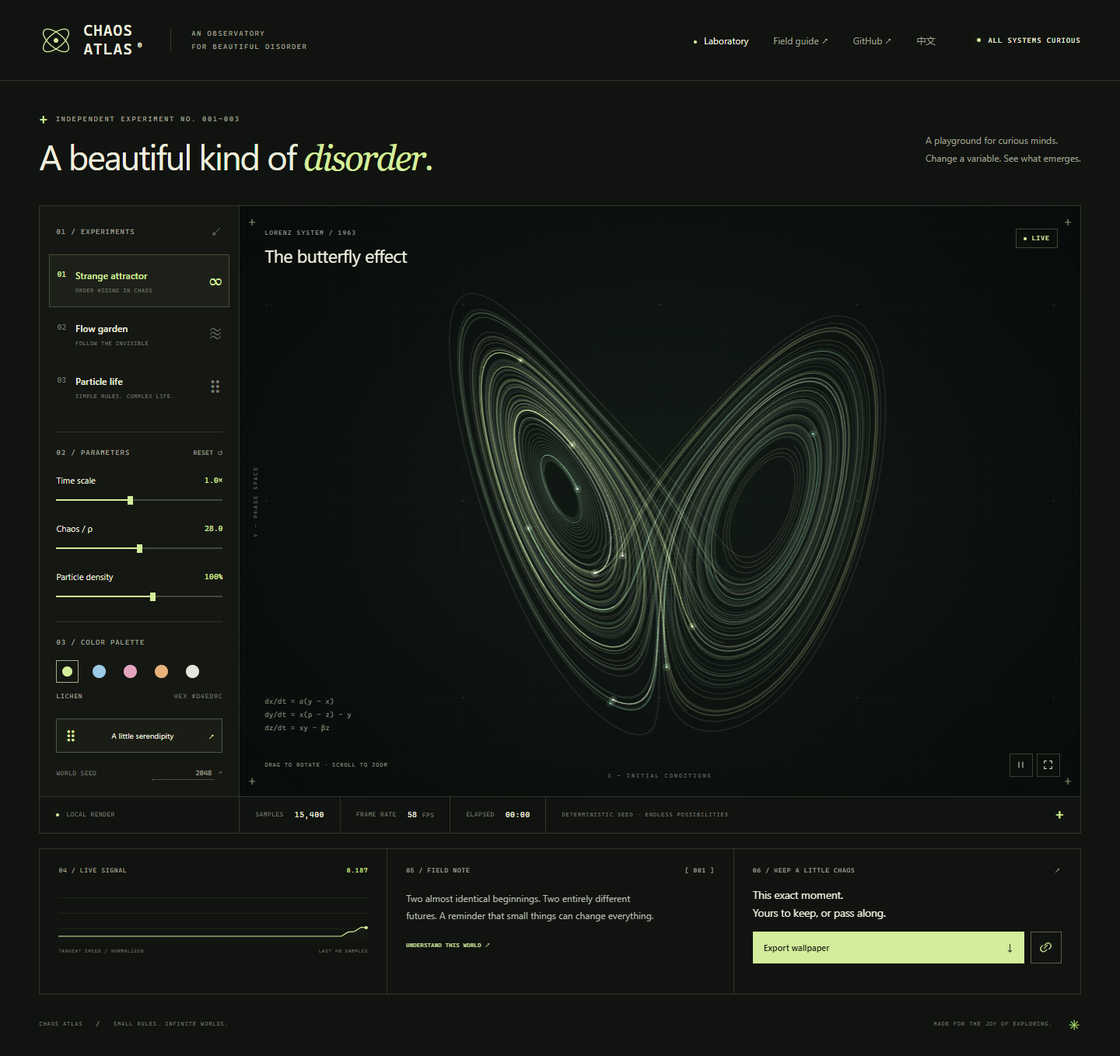
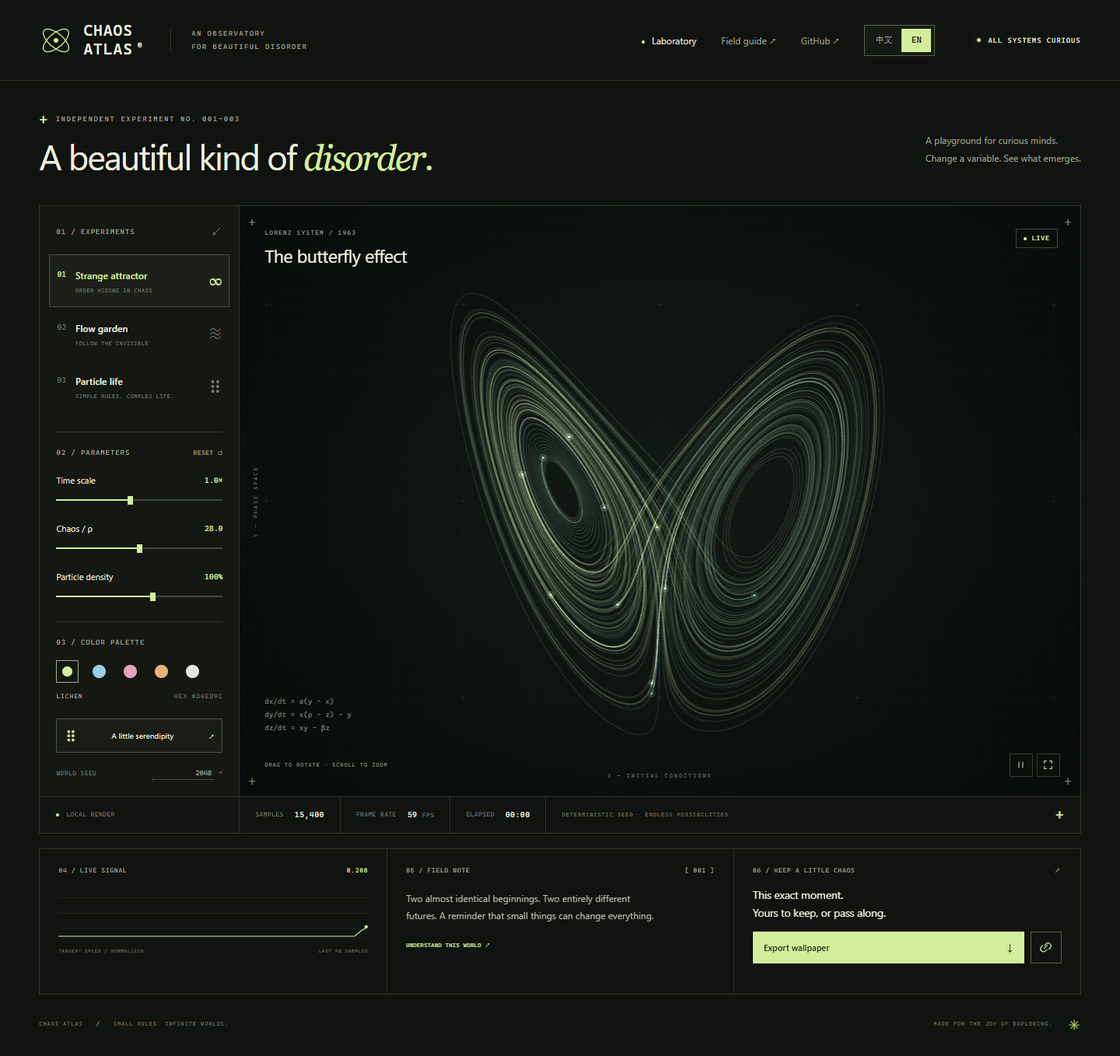
Make Chinese and English switching clear and complete

diff --git a/src/app.js b/src/app.js
@@ -5,14 +5,22 @@ const $$ = (selector) => [...document.querySelectorAll(selector)];
 const defaults = { scene: 'lorenz', seed: 2048, palette: 'lichen', speed: 1, force: 1, density: 1 };
 const scenes = ['lorenz', 'flow', 'life'];
 const palettes = {
-  lichen: { name: 'LICHEN', color: '#d4ed9c', wavelength: 555 },
-  glacier: { name: 'GLACIER', color: '#9bcbe5', wavelength: 480 },
-  rose: { name: 'ROSE', color: '#e2a4bc', wavelength: 650 },
-  ember: { name: 'EMBER', color: '#e7b37b', wavelength: 610 },
-  mono: { name: 'SILVER', color: '#e6e4db', wavelength: '—' },
+  lichen: { name: ['LICHEN', '苔绿'], color: '#d4ed9c' },
+  glacier: { name: ['GLACIER', '冰川'], color: '#9bcbe5' },
+  rose: { name: ['ROSE', '玫瑰'], color: '#e2a4bc' },
+  ember: { name: ['EMBER', '余烬'], color: '#e7b37b' },
+  mono: { name: ['SILVER', '银白'], color: '#e6e4db' },
 };
 const translations = {
   en: {
+    mastheadCaption: 'AN OBSERVATORY<br/>FOR BEAUTIFUL DISORDER',
+    pageTitle: 'CHAOS ATLAS — Beautiful disorder',
+    metaDescription: 'A small observatory for beautiful disorder. Explore living particle systems, discover strange attractors, and make a little chaos of your own.',
+    mainNavigation: 'Main navigation', languageLabel: 'Language', experimentsLabel: 'Experiments',
+    paletteLabel: 'Color palette', paletteName: '{name} palette', seedLabel: 'World seed, up to eight digits',
+    simulationLabel: 'Interactive particle simulation', signalLabel: 'Rolling trace of average particle motion',
+    homeLabel: 'Chaos Atlas home', githubLabel: 'Star Chaos Atlas on GitHub', closeDialog: 'Close dialog',
+    axisY: 'Y — PHASE SPACE', axisX: 'X — INITIAL CONDITIONS', frameRate: 'FRAME RATE', lastSamples: 'LAST 48 SAMPLES',
     navLab: 'Laboratory', navGuide: 'Field guide ↗', system: 'ALL SYSTEMS CURIOUS',
     introEyebrow: 'INDEPENDENT EXPERIMENT NO. 001—003', headline: 'A beautiful kind of <em>disorder.</em>',
     intro: 'A playground for curious minds.<br/>Change a variable. See what emerges.',
@@ -40,6 +48,14 @@ const translations = {
     pauseLabel: 'Pause simulation', resumeLabel: 'Resume simulation', immersiveLabel: 'Enter immersive mode', exitLabel: 'Exit immersive mode',
   },
   zh: {
+    mastheadCaption: '一座观察<br/>美丽无序的实验室',
+    pageTitle: 'CHAOS ATLAS · 混沌图谱 — 美丽的无序',
+    metaDescription: '一座观察美丽无序的小型实验室。探索奇异吸引子、流场花园和粒子生命，亲手生成并分享属于你的混沌世界。',
+    mainNavigation: '主导航', languageLabel: '语言', experimentsLabel: '实验场景',
+    paletteLabel: '色彩方案', paletteName: '{name}配色', seedLabel: '世界种子，最多八位数字',
+    simulationLabel: '可交互的粒子模拟', signalLabel: '平均粒子运动强度的实时曲线',
+    homeLabel: '混沌图谱首页', githubLabel: '在 GitHub 收藏混沌图谱', closeDialog: '关闭弹窗',
+    axisY: 'Y — 相空间', axisX: 'X — 初始条件', frameRate: '帧率', lastSamples: '最近 48 次采样',
     navLab: '实验室', navGuide: '观测手册 ↗', system: '好奇心，运行中',
     introEyebrow: '独立实验 NO. 001—003', headline: '一种美丽的 <em>无序。</em>',
     intro: '给好奇心一片游乐场。<br/>改变一个变量，看看会发生什么。',
@@ -65,22 +81,22 @@ const translations = {
 };
 const sceneInfo = {
   lorenz: {
-    code: 'LORENZ SYSTEM / 1963', title: ['The butterfly effect', '蝴蝶效应'],
+    code: ['LORENZ SYSTEM / 1963', '洛伦兹系统 / 1963'], title: ['The butterfly effect', '蝴蝶效应'],
     note: ['Two almost identical beginnings. Two entirely different futures. A reminder that small things can change everything.', '几乎相同的起点，截然不同的未来。初始条件的微小偏差，也能让轨迹渐行渐远。'],
     hint: ['DRAG TO ROTATE · SCROLL TO ZOOM', '拖动旋转 · 滚轮缩放'], force: ['Chaos / ρ', '混沌参数 / ρ'],
     equation: 'dx/dt = σ(y − x)<br/>dy/dt = x(ρ − z) − y<br/>dz/dt = xy − βz',
   },
   flow: {
-    code: 'ANALYTIC FLOW / STREAM FUNCTION', title: ['Follow the invisible', '追随无形之流'],
+    code: ['ANALYTIC FLOW / STREAM FUNCTION', '解析流场 / 流函数'], title: ['Follow the invisible', '追随无形之流'],
     note: ['No particle knows the whole picture. Each follows its local current, and a garden of invisible paths begins to bloom.', '没有一颗粒子知道全貌。它们只追随所在位置的流向，无数局部轨迹，却渐渐长成了一座花园。'],
     hint: ['MOVE TO STIR · DRAG TO DISTURB', '移动指针搅动流场 · 拖动扰动'], force: ['Field complexity', '流场复杂度'],
-    equation: 'v = (∂ψ/∂y, −∂ψ/∂x)<br/>dp/dt = v(p, t)<br/>ψ = evolving stream function',
+    equation: ['v = (∂ψ/∂y, −∂ψ/∂x)<br/>dp/dt = v(p, t)<br/>ψ = evolving stream function', 'v = (∂ψ/∂y, −∂ψ/∂x)<br/>dp/dt = v(p, t)<br/>ψ = 随时间演化的流函数'],
   },
   life: {
-    code: 'PARTICLE LIFE / EMERGENT SYSTEM', title: ['Together, something new', '聚在一起，便有了生命'],
+    code: ['PARTICLE LIFE / EMERGENT SYSTEM', '粒子生命 / 涌现系统'], title: ['Together, something new', '聚在一起，便有了生命'],
     note: ['A little attraction. A little resistance. Without a plan or a leader, tiny particles find a way to become something more.', '一点吸引，一点排斥。没有蓝图，也没有指挥者，微小的粒子依靠彼此间的规则，生长出意想不到的形态。'],
     hint: ['MOVE TO ATTRACT · DRAG TO REPEL', '移动指针吸引 · 按住拖动排斥'], force: ['Interaction strength', '相互作用强度'],
-    equation: 'Fᵢ = Σ f(aᵢⱼ, rᵢⱼ)<br/>dv/dt = F − γv<br/>periodic boundaries / 4 species',
+    equation: ['Fᵢ = Σ f(aᵢⱼ, rᵢⱼ)<br/>dv/dt = F − γv<br/>periodic boundaries / 4 species', 'Fᵢ = Σ f(aᵢⱼ, rᵢⱼ)<br/>dv/dt = F − γv<br/>周期边界 / 4 种粒子'],
   },
 };
 
@@ -93,6 +109,11 @@ const numberParam = (key, fallback, min, max, step = 0) => {
 };
 let savedLanguage;
 try { savedLanguage = localStorage.getItem('chaos-atlas-language'); } catch { /* Storage is optional. */ }
+const supportedLanguage = (value) => {
+  const language = String(value || '').toLowerCase().split(/[-_]/)[0];
+  return ['zh', 'en'].includes(language) ? language : null;
+};
+const browserLanguage = (navigator.languages || [navigator.language]).map(supportedLanguage).find(Boolean);
 const state = {
   ...defaults,
   scene: scenes.includes(params.get('scene')) ? params.get('scene') : defaults.scene,
@@ -101,11 +122,11 @@ const state = {
   speed: numberParam('speed', defaults.speed, 0.2, 2, 0.1),
   density: numberParam('density', defaults.density, 0.3, 1.5, 0.05),
   force: numberParam('force', defaults.force, 0, 2, 0.02),
-  language: (params.get('lang') || savedLanguage) === 'zh' ? 'zh' : 'en',
+  language: supportedLanguage(params.get('lang')) || supportedLanguage(savedLanguage) || browserLanguage || 'en',
   running: !matchMedia('(prefers-reduced-motion: reduce)').matches,
 };
 const t = (key) => translations[state.language][key] || translations.en[key] || key;
-const localized = (values) => values[state.language === 'zh' ? 1 : 0];
+const localized = (values) => Array.isArray(values) ? values[state.language === 'zh' ? 1 : 0] : values;
 let toastTimer;
 function toast(message) {
   $('#toast').textContent = message;
@@ -169,9 +190,9 @@ function updateParameters() {
 function updateScene() {
   const info = sceneInfo[state.scene];
   $$('.scene-button').forEach((button) => { const active = button.dataset.scene === state.scene; button.classList.toggle('active', active); button.setAttribute('aria-pressed', active); });
-  $('#scene-code').textContent = info.code; $('#scene-title').textContent = localized(info.title);
+  $('#scene-code').textContent = localized(info.code); $('#scene-title').textContent = localized(info.title);
   $('#field-note').textContent = localized(info.note); $('#interaction-hint').textContent = localized(info.hint);
-  $('#complexity-label').textContent = localized(info.force); $('#equation').innerHTML = info.equation;
+  $('#complexity-label').textContent = localized(info.force); $('#equation').innerHTML = localized(info.equation);
   $('#note-number').textContent = `[ 00${scenes.indexOf(state.scene) + 1} ]`;
   const particlesLabel = $('.telemetry [data-i18n="particles"]');
   particlesLabel.textContent = state.scene === 'lorenz' ? (state.language === 'zh' ? '轨迹采样' : 'SAMPLES') : t('particles');
@@ -183,7 +204,12 @@ function updateScene() {
 function updatePalette() {
   document.documentElement.style.setProperty('--accent', palettes[state.palette].color);
   $$('.palette').forEach((button) => { const active = button.dataset.palette === state.palette; button.classList.toggle('active', active); button.setAttribute('aria-pressed', active); });
-  $('#palette-name').textContent = palettes[state.palette].name;
+  $('#palette-name').textContent = localized(palettes[state.palette].name);
+  $$('.palette').forEach((button) => {
+    const name = localized(palettes[button.dataset.palette].name);
+    const label = t('paletteName').replace('{name}', name);
+    button.setAttribute('aria-label', label); button.title = label;
+  });
   $('#wavelength').textContent = palettes[state.palette].color.toUpperCase();
   simulation.setPalette(state.palette); drawSignal(lastTrace);
 }
@@ -205,15 +231,24 @@ function renderGuide() {
     { title: zh ? '02 / 流场花园' : '02 / The flow garden',
       body: zh ? '粒子沿解析流函数形成的速度场前进，留下短暂轨迹。复杂度改变次级涡旋的强度。移动指针可加入局部旋涡。这是一个程序生成的流场，并非完整的流体力学求解器。' : 'Particles follow the velocity field of an evolving analytic stream function, leaving short histories behind. Complexity changes the strength of secondary vortices. Move your pointer to introduce a local swirl. This is a procedural field, rather than a full fluid dynamics solver.', formula: 'v = (∂ψ/∂y, −∂ψ/∂x)' },
     { title: zh ? '03 / 粒子生命' : '03 / Particle life',
-      body: zh ? '四种粒子依照由种子生成的关系矩阵彼此吸引或排斥。近距离排斥避免粒子堆叠；阻尼稳定运动。边界首尾相连。移动指针吸引粒子，按住拖动则排斥。它是涌现行为的视觉模型，不代表真实生物。' : 'Four species attract or repel according to a seed-generated interaction matrix. Short-range repulsion prevents collapse; drag damps velocity. Edges wrap into a periodic world. Move your pointer to attract, or hold and drag to repel. This is a visual model of emergence, not a model of biological organisms.', formula: 'local forces + damping + periodic boundaries' },
+      body: zh ? '四种粒子依照由种子生成的关系矩阵彼此吸引或排斥。近距离排斥避免粒子堆叠；阻尼稳定运动。边界首尾相连。移动指针吸引粒子，按住拖动则排斥。它是涌现行为的视觉模型，不代表真实生物。' : 'Four species attract or repel according to a seed-generated interaction matrix. Short-range repulsion prevents collapse; drag damps velocity. Edges wrap into a periodic world. Move your pointer to attract, or hold and drag to repel. This is a visual model of emergence, not a model of biological organisms.', formula: zh ? '局部作用力 + 阻尼 + 周期边界' : 'local forces + damping + periodic boundaries' },
   ];
   $('#guide-content').innerHTML = guides.map((guide) => `<section class="guide-section"><h3>${guide.title}</h3><p>${guide.body}</p><div class="formula">${guide.formula}</div></section>`).join('');
 }
 function applyLanguage() {
   document.documentElement.lang = state.language === 'zh' ? 'zh-CN' : 'en';
+  document.title = t('pageTitle');
+  $('meta[name="description"]').content = t('metaDescription');
   $$('[data-i18n]').forEach((element) => { element.innerHTML = t(element.dataset.i18n); });
-  $('#language-button').textContent = state.language === 'zh' ? 'EN' : '中文';
-  $('#language-button').setAttribute('aria-label', state.language === 'zh' ? 'Switch to English' : '切换为中文');
+  $$('[data-i18n-aria-label]').forEach((element) => element.setAttribute('aria-label', t(element.dataset.i18nAriaLabel)));
+  $$('[data-language]').forEach((button) => {
+    const active = button.dataset.language === state.language;
+    button.classList.toggle('active', active); button.setAttribute('aria-pressed', String(active));
+  });
+  $('.brand').setAttribute('aria-label', t('homeLabel'));
+  $$('.close-dialog').forEach((button) => { button.setAttribute('aria-label', t('closeDialog')); button.title = t('closeDialog'); });
+  $('#immersive-button').setAttribute('aria-label', t(document.body.classList.contains('is-immersive') ? 'exitLabel' : 'immersiveLabel'));
+  $('#immersive-button').title = `${t('immersiveLabel')} (F)`;
   $('#share-button').setAttribute('aria-label', state.language === 'zh' ? '分享这个世界' : 'Share this world');
   $('#share-button').title = state.language === 'zh' ? '分享这个世界' : 'Share this world';
   const sizes = state.language === 'zh' ? ['桌面 — 2560 × 1440', '4K — 3840 × 2160', '手机 — 1440 × 2560', '方形 — 2048 × 2048'] : ['Desktop — 2560 × 1440', '4K — 3840 × 2160', 'Phone — 1440 × 2560', 'Square — 2048 × 2048'];
@@ -258,7 +293,10 @@ $('#exit-immersive').addEventListener('click', () => setImmersive(false));
 $('#guide-button').addEventListener('click', () => openDialog('#guide-dialog'));
 $('#read-note').addEventListener('click', () => openDialog('#guide-dialog'));
 $('#export-button').addEventListener('click', () => openDialog('#export-dialog'));
-$('#language-button').addEventListener('click', () => { state.language = state.language === 'zh' ? 'en' : 'zh'; applyLanguage(); syncURL(); });
+$$('[data-language]').forEach((button) => button.addEventListener('click', () => {
+  if (state.language === button.dataset.language) return;
+  state.language = button.dataset.language; applyLanguage(); syncURL();
+}));
 $$('.close-dialog').forEach((button) => button.addEventListener('click', () => button.closest('dialog').close()));
 $$('dialog').forEach((dialog) => dialog.addEventListener('click', (event) => {
   const rect = dialog.getBoundingClientRect();

diff --git a/index.html b/index.html
@@ -18,8 +18,8 @@
         <svg class="brand-mark" viewBox="0 0 44 44" fill="none" aria-hidden="true"><ellipse cx="22" cy="22" rx="20" ry="9" transform="rotate(-40 22 22)"/><ellipse cx="22" cy="22" rx="20" ry="9" transform="rotate(40 22 22)"/><circle cx="22" cy="22" r="3"/></svg>
         <span>CHAOS<span class="brand-bottom">ATLAS<span class="brand-dot">®</span></span></span>
       </a>
-      <div class="masthead-caption">AN OBSERVATORY<br/>FOR BEAUTIFUL DISORDER</div>
-      <nav aria-label="Main navigation"><a href="#laboratory" class="nav-active" data-i18n="navLab">Laboratory</a><button id="guide-button" data-i18n="navGuide">Field guide <span>↗</span></button><a class="source-link" href="https://github.com/bidepanwin/chaos-atlas" target="_blank" rel="noopener noreferrer" aria-label="Star Chaos Atlas on GitHub">GitHub ↗</a><button id="language-button" aria-label="Switch to Chinese">中文</button></nav>
+      <div class="masthead-caption" data-i18n="mastheadCaption">AN OBSERVATORY<br/>FOR BEAUTIFUL DISORDER</div>
+      <nav aria-label="Main navigation" data-i18n-aria-label="mainNavigation"><a href="#laboratory" class="nav-active" data-i18n="navLab">Laboratory</a><button id="guide-button" data-i18n="navGuide">Field guide <span>↗</span></button><a class="source-link" href="https://github.com/bidepanwin/chaos-atlas" target="_blank" rel="noopener noreferrer" aria-label="Star Chaos Atlas on GitHub" data-i18n-aria-label="githubLabel">GitHub ↗</a><div class="language-switch" role="group" aria-label="Language" data-i18n-aria-label="languageLabel"><button type="button" data-language="zh" lang="zh-CN" aria-label="使用中文" aria-pressed="false">中文</button><button type="button" data-language="en" lang="en" aria-label="Use English" aria-pressed="true">EN</button></div></nav>
       <div class="system-status"><i></i><span data-i18n="system">ALL SYSTEMS CURIOUS</span></div>
     </header>
 
@@ -32,7 +32,7 @@
       <div class="laboratory">
         <aside class="controls">
           <div class="section-label"><span data-i18n="experiments">01 / EXPERIMENTS</span><span>↙</span></div>
-          <div class="scene-list" role="group" aria-label="Experiments">
+          <div class="scene-list" role="group" aria-label="Experiments" data-i18n-aria-label="experimentsLabel">
             <button class="scene-button active" data-scene="lorenz" aria-pressed="true"><span class="scene-number">01</span><span><strong data-i18n="lorenz">Strange attractor</strong><small data-i18n="lorenzSub">ORDER HIDING IN CHAOS</small></span><span class="scene-glyph">∞</span></button>
             <button class="scene-button" data-scene="flow" aria-pressed="false"><span class="scene-number">02</span><span><strong data-i18n="flow">Flow garden</strong><small data-i18n="flowSub">FOLLOW THE INVISIBLE</small></span><span class="scene-glyph">≋</span></button>
             <button class="scene-button" data-scene="life" aria-pressed="false"><span class="scene-number">03</span><span><strong data-i18n="life">Particle life</strong><small data-i18n="lifeSub">SIMPLE RULES. COMPLEX LIFE.</small></span><span class="scene-glyph">⠿</span></button>
@@ -44,18 +44,18 @@
             <label class="slider-label" for="density"><span data-i18n="density">Particle density</span><output id="density-output" for="density">100%</output></label><input type="range" id="density" min="30" max="150" step="5" value="100" />
           </div>
 
-          <div class="palette-section"><div class="section-label"><span data-i18n="palette">03 / COLOR PALETTE</span></div><div class="palette-options" role="group" aria-label="Color palette">
+          <div class="palette-section"><div class="section-label"><span data-i18n="palette">03 / COLOR PALETTE</span></div><div class="palette-options" role="group" aria-label="Color palette" data-i18n-aria-label="paletteLabel">
             <button class="palette active" data-palette="lichen" aria-label="Lichen palette" aria-pressed="true" style="--swatch:#d4ed9c"><span></span></button><button class="palette" data-palette="glacier" aria-label="Glacier palette" aria-pressed="false" style="--swatch:#9bcbe5"><span></span></button><button class="palette" data-palette="rose" aria-label="Rose palette" aria-pressed="false" style="--swatch:#e2a4bc"><span></span></button><button class="palette" data-palette="ember" aria-label="Ember palette" aria-pressed="false" style="--swatch:#e7b37b"><span></span></button><button class="palette" data-palette="mono" aria-label="Monochrome palette" aria-pressed="false" style="--swatch:#e6e4db"><span></span></button>
           </div><div class="palette-caption"><span id="palette-name">LICHEN</span><span>HEX <span id="wavelength">#D4ED9C</span></span></div></div>
 
           <button id="random-button" class="random-button"><span class="dice-icon">⠿</span><span data-i18n="random">A little serendipity</span><span>↗</span></button>
-          <div class="seed-row"><label for="seed" data-i18n="seed">WORLD SEED</label><input id="seed" type="text" maxlength="8" pattern="[0-9]{1,8}" inputmode="numeric" aria-label="World seed, up to eight digits" value="2048"/><span>↵</span></div>
+          <div class="seed-row"><label for="seed" data-i18n="seed">WORLD SEED</label><input id="seed" type="text" maxlength="8" pattern="[0-9]{1,8}" inputmode="numeric" aria-label="World seed, up to eight digits" data-i18n-aria-label="seedLabel" value="2048"/><span>↵</span></div>
         </aside>
 
-        <section class="viewport" aria-label="Interactive particle simulation">
+        <section class="viewport" aria-label="Interactive particle simulation" data-i18n-aria-label="simulationLabel">
           <canvas id="simulation" aria-label="Animated strange attractor. Change parameters using the controls, or drag to interact."></canvas>
           <div class="viewport-top"><div><div class="eyebrow" id="scene-code">LORENZ SYSTEM / 1963</div><h2 id="scene-title">The butterfly effect</h2></div><div class="live-badge"><i></i><span id="live-label">LIVE</span></div></div>
-          <div class="axis-label axis-y">Y — PHASE SPACE</div><div class="axis-label axis-x">X — INITIAL CONDITIONS</div>
+          <div class="axis-label axis-y" data-i18n="axisY">Y — PHASE SPACE</div><div class="axis-label axis-x" data-i18n="axisX">X — INITIAL CONDITIONS</div>
           <div class="canvas-cross cross-tl">+</div><div class="canvas-cross cross-tr">+</div><div class="canvas-cross cross-bl">+</div><div class="canvas-cross cross-br">+</div>
           <div class="viewport-equation" id="equation">dx/dt = σ(y − x)<br/>dy/dt = x(ρ − z) − y<br/>dz/dt = xy − βz</div>
           <div class="viewport-bottom"><span class="interaction-hint" id="interaction-hint">DRAG TO ROTATE · SCROLL TO ZOOM</span><div class="canvas-tools"><button id="pause-button" title="Pause simulation (Space)" aria-label="Pause simulation"><svg viewBox="0 0 16 16" aria-hidden="true"><path d="M5 3v10M11 3v10"/></svg></button><button id="immersive-button" title="Immersive mode (F)" aria-label="Enter immersive mode"><svg viewBox="0 0 16 16" aria-hidden="true"><path d="M2 6V2h4m4 0h4v4M2 10v4h4m4 0h4v-4"/></svg></button></div></div>
@@ -64,10 +64,10 @@
         </section>
       </div>
 
-      <div class="telemetry"><div><i class="tiny-dot"></i><span data-i18n="render">LOCAL RENDER</span></div><div><span data-i18n="particles">PARTICLES</span><strong id="particle-stat">—</strong></div><div><span>FRAME RATE</span><strong><span id="fps-stat">—</span> <small>FPS</small></strong></div><div><span data-i18n="elapsed">ELAPSED</span><strong id="elapsed-stat">00:00</strong></div><div class="telemetry-end"><span data-i18n="engine">DETERMINISTIC SEED · ENDLESS POSSIBILITIES</span><span class="cross">+</span></div></div>
+      <div class="telemetry"><div><i class="tiny-dot"></i><span data-i18n="render">LOCAL RENDER</span></div><div><span data-i18n="particles">PARTICLES</span><strong id="particle-stat">—</strong></div><div><span data-i18n="frameRate">FRAME RATE</span><strong><span id="fps-stat">—</span> <small>FPS</small></strong></div><div><span data-i18n="elapsed">ELAPSED</span><strong id="elapsed-stat">00:00</strong></div><div class="telemetry-end"><span data-i18n="engine">DETERMINISTIC SEED · ENDLESS POSSIBILITIES</span><span class="cross">+</span></div></div>
 
       <section class="bottom-grid">
-        <article class="panel signal-panel"><div class="section-label"><span data-i18n="signal">04 / LIVE SIGNAL</span><span class="signal-value" id="activity-value">0.000</span></div><canvas id="signal" aria-label="Rolling trace of average particle motion"></canvas><div class="panel-foot"><span id="signal-label" data-i18n="motionSignal">MEAN MOTION / NORMALIZED</span><span>LAST 48 SAMPLES</span></div></article>
+        <article class="panel signal-panel"><div class="section-label"><span data-i18n="signal">04 / LIVE SIGNAL</span><span class="signal-value" id="activity-value">0.000</span></div><canvas id="signal" aria-label="Rolling trace of average particle motion" data-i18n-aria-label="signalLabel"></canvas><div class="panel-foot"><span id="signal-label" data-i18n="motionSignal">MEAN MOTION / NORMALIZED</span><span data-i18n="lastSamples">LAST 48 SAMPLES</span></div></article>
         <article class="panel note-panel"><div class="section-label"><span data-i18n="fieldNote">05 / FIELD NOTE</span><span id="note-number">[ 001 ]</span></div><p id="field-note">Two almost identical beginnings. Two entirely different futures. A reminder that small things can change everything.</p><button class="text-button" id="read-note" data-i18n="readNote">UNDERSTAND THIS WORLD ↗</button></article>
         <article class="panel collect-panel"><div class="section-label"><span data-i18n="collect">06 / KEEP A LITTLE CHAOS</span><span>↗</span></div><p data-i18n="collectText">This exact moment.<br/>Yours to keep, or pass along.</p><div class="collect-actions"><button class="primary-button" id="export-button"><span data-i18n="export">Export wallpaper</span><span>↓</span></button><button id="share-button" class="icon-button" aria-label="Share this world" title="Share this world"><svg viewBox="0 0 20 20" aria-hidden="true"><path d="M7.5 11.5l5-5M6 7l-2.5 2.5a4 4 0 005.5 5.5L12 12.5M8 7.5L11 4.5a4 4 0 015.5 5.5L14 12.5"/></svg></button></div></article>
       </section>
@@ -79,7 +79,7 @@
     <dialog id="guide-dialog" aria-labelledby="guide-heading"><div class="dialog-header"><span class="eyebrow" data-i18n="guideEyebrow">THE OBSERVER'S HANDBOOK</span><button class="close-dialog" aria-label="Close field guide">×</button></div><h2 id="guide-heading" data-i18n="guideTitle">A field guide to chaos.</h2><div id="guide-content"></div><div class="shortcut-list"><span><kbd>1</kbd><kbd>2</kbd><kbd>3</kbd> <span data-i18n="shortcutScenes">Switch worlds</span></span><span><kbd>Space</kbd> <span data-i18n="shortcutPause">Pause</span></span><span><kbd>R</kbd> <span data-i18n="shortcutRandom">Randomize</span></span><span><kbd>F</kbd> <span data-i18n="shortcutFocus">Immerse</span></span></div><p class="guide-disclaimer" data-i18n="guideDisclaimer">An artistic exploration of mathematical systems. These are numerical simulations, not scientific measurement instruments. All rendering stays on your device.</p></dialog>
     <dialog id="export-dialog" aria-labelledby="export-heading"><div class="dialog-header"><span class="eyebrow" data-i18n="exportEyebrow">A MOMENT, MADE TANGIBLE</span><button class="close-dialog" aria-label="Close export dialog">×</button></div><h2 id="export-heading" data-i18n="exportTitle">Take the chaos with you.</h2><p class="dialog-description" data-i18n="exportDescription">Your current world, rendered as a clean PNG. No interface, just the good stuff.</p><label class="export-label" for="export-size" data-i18n="canvasSize">CANVAS SIZE</label><select id="export-size"><option value="2560x1440">Desktop — 2560 × 1440</option><option value="3840x2160">4K — 3840 × 2160</option><option value="1440x2560">Phone — 1440 × 2560</option><option value="2048x2048">Square — 2048 × 2048</option></select><button class="primary-button download-button" id="download-button"><span data-i18n="download">Download PNG</span><span>↓</span></button><p class="export-note" data-i18n="exportNote">A fresh composition from the same seed and parameters. Flow trails are rebuilt for a crisp, high resolution image.</p></dialog>
     <dialog id="share-dialog" aria-labelledby="share-heading"><div class="dialog-header"><span class="eyebrow" data-i18n="shareEyebrow">SAME RULES. SAME BEGINNING.</span><button class="close-dialog" aria-label="Close share dialog">×</button></div><h2 id="share-heading" data-i18n="shareTitle">Send a little serendipity.</h2><p class="dialog-description" data-i18n="shareDescription">This link contains your scene, seed, palette and parameters. Anyone can start from the same world.</p><label class="export-label" for="share-url" data-i18n="worldLink">YOUR WORLD LINK</label><input id="share-url" readonly /><button id="copy-button" class="primary-button download-button" data-i18n="copy">Copy link ↗</button></dialog>
-    <noscript>This observatory needs JavaScript to simulate its worlds. Please enable JavaScript to explore.</noscript>
+    <noscript><span lang="zh-CN">本实验室需要 JavaScript 才能运行，请启用后体验。</span><br/><span lang="en">This observatory needs JavaScript to simulate its worlds. Please enable JavaScript to explore.</span></noscript>
     <script type="module" src="./src/app.js"></script>
   </body>
 </html>

diff --git a/src/styles.css b/src/styles.css
@@ -12,3 +12,10 @@ dialog{position:fixed;border:1px solid #5c694d;background:#161b13;color:var(--in
 @media(max-width:440px){.masthead nav{gap:14px}.masthead nav a{display:none}.masthead nav button{font-size:10px}h1{font-size:29px}.intro .eyebrow{font-size:7px;letter-spacing:.7px}.intro{padding:24px 0}.controls{padding:13px}.scene-button{padding:12px 5px;gap:5px}.scene-button strong{font-size:9px}.parameter-section{gap:0 13px}.slider-label{font-size:8px}.slider-label output{font-size:8px}.palette-section{gap:10px}.palette-section .section-label{font-size:6px;letter-spacing:.5px}.palette-options{gap:4px}.palette{width:23px;height:23px}.palette-caption{font-size:6px}.seed-row{padding-left:12px;font-size:6px;gap:4px}.seed-row input{width:52px}.random-button{font-size:9px;padding:8px}.viewport{min-height:420px}.viewport-top{top:25px;left:24px;right:20px}h2{font-size:20px}.viewport-top .eyebrow{font-size:6px}.live-badge{font-size:7px;padding:6px 7px}.viewport-equation{font-size:7px;left:25px;bottom:80px}.interaction-hint{font-size:5px;letter-spacing:.2px}.viewport-bottom{left:25px;right:20px;bottom:22px}.telemetry>div{padding:0 8px;font-size:6px}.telemetry strong{font-size:9px}.panel{padding:14px}.panel .section-label{font-size:6px;letter-spacing:.4px}.panel-foot{font-size:5px}.note-panel p{font-size:10px;line-height:1.7}.collect-panel p{font-size:12px}.primary-button{font-size:10px;padding:10px;gap:8px}.collect-actions{gap:6px}.icon-button{width:34px}footer{letter-spacing:.5px}dialog{padding:24px}dialog h2{font-size:28px}.shortcut-list{gap:12px;font-size:9px}}
 @media(prefers-reduced-motion:reduce){html{scroll-behavior:auto}*,*:before,*:after{animation:none!important;transition:none!important}}
 @media(max-width:440px){.masthead nav .source-link{display:block;font-size:10px}}
+.masthead nav .language-switch{display:flex;align-items:center;gap:3px;padding:4px;border:1px solid #586447;background:#d4ed9c08;flex-shrink:0}
+.masthead nav .language-switch button{min-width:38px;min-height:30px;padding:6px 9px;font:11px var(--mono);color:var(--muted);transition:background .2s,color .2s}
+.masthead nav .language-switch button.active{background:var(--accent);color:#172010;font-weight:600}
+.masthead nav .language-switch button:hover{color:var(--ink);background:#d4ed9c15}
+.masthead nav .language-switch button.active:hover{color:#172010;background:var(--accent)}
+@media(max-width:600px){.masthead nav .source-link{display:none}}
+@media(max-width:440px){.masthead nav{gap:10px}.masthead nav .language-switch{padding:3px}.masthead nav .language-switch button{font-size:10px;min-width:33px;padding:6px;min-height:30px}}

diff --git a/README.md b/README.md
@@ -54,7 +54,9 @@ Wallpaper export redraws the current scene geometry at the selected resolution r
 | `F` | Enter or leave immersive mode |
 | `Esc` | Close a dialog or leave immersive mode |
 
-Use the **中文** control to switch the interface language.
+Use the visible **中文 / EN** options in the header to switch languages on desktop or mobile. The current choice is highlighted and saved for future visits. Language selection follows this order: a valid `lang=zh` or `lang=en` URL parameter → saved preference → browser language → English. Switching languages keeps the current experiment and parameters intact.
+
+Open directly in [中文](https://bidepanwin.github.io/chaos-atlas/?lang=zh) or [English](https://bidepanwin.github.io/chaos-atlas/?lang=en).
 
 ## Run locally
 

diff --git a/README.zh-CN.md b/README.zh-CN.md
@@ -54,7 +54,9 @@
 | `F` | 进入或退出沉浸模式 |
 | `Esc` | 关闭弹窗或退出沉浸模式 |
 
-点击界面顶部的 **中文** 可切换显示语言。
+通过页头显著的 **中文 / EN** 两个选项切换语言，桌面和手机均可使用。当前语言会高亮显示，并保存为下次访问的偏好。语言选择优先级为：有效的 `lang=zh` 或 `lang=en` URL 参数 → 已保存选择 → 浏览器语言 → 英语。切换语言会保留当前实验和参数。
+
+也可以直接打开[中文版](https://bidepanwin.github.io/chaos-atlas/?lang=zh)或[英文版](https://bidepanwin.github.io/chaos-atlas/?lang=en)。
 
 ## 本地运行
 
